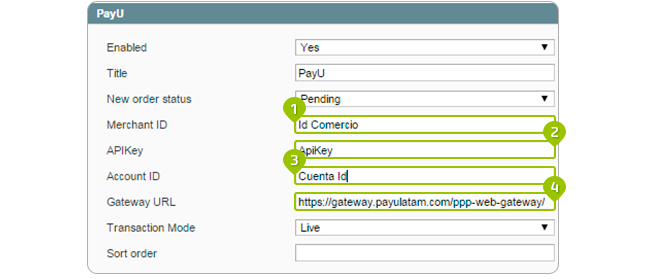
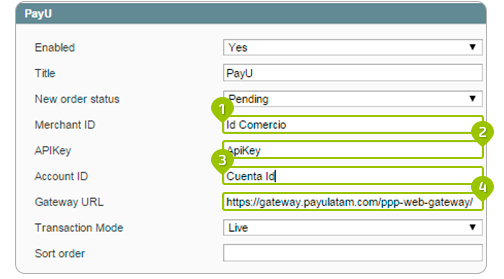
Magentos images PT - ES

diff --git a/_es/solutions/shopping_carts/magento.html b/_es/solutions/shopping_carts/magento.html
@@ -32,7 +32,7 @@ No necesitas contar con una página web para recibir pagos de forma segura.</spa
 
 	<div class="row">
 	<div class="col s12 m6 l6"><span class="number">01. </span><span class="grey-text-13">Limpiar el cache de Magento: ve a System  >  Cache Management y haz click en "Flush Magento Cache".</span></div>
-	<div class="col s12 m6 l6"><img border="0" src="/images/soluciones-adicionales/secure1-es.jpg"></div>
+	<div class="col s12 m6 l6"><img src="{{ site.baseurl }}/images/soluciones-adicionales/magento1.jpg" alt="Magento" class="center" /></div>
 	</div>
 	
 	<div class="row">
@@ -49,23 +49,23 @@ No necesitas contar con una página web para recibir pagos de forma segura.</spa
 	
 	<div class="row">
 	<div class="col s12 m6 l6"><span class="number">04. </span><span class="grey-text-13">Copia la carpeta "Gfgrisales" que se encuentra en "app/code/local" en la ruta "app/code/local" ubicada en la raíz de la instalación de Magento. Si la carpeta "local" no existe dentro de la ruta de Magento, debes crearla y luego copiar los archivos indicados. Asegúrate de que todas las carpetas quedan con todos los permisos de lectura/escritura.</span></div>
-	<div class="col s12 m6 l6"><img src="{{ site.baseurl }}/images/soluciones-adicionales/secure1-es.jpg" alt="procesamiento en línea" width="465" height="356" class="aligncenter size-full wp-image-369" /></div>
+	<div class="col s12 m6 l6"><img src="{{ site.baseurl }}/images/soluciones-adicionales/magento2.jpg" alt="Magento" class="center" /></div>
 	</div>
 
 	<div class="row">
-	<div class="col s12 m6 l6"><span class="number">05. </span><span class="grey-text-13">Copia la carpeta "payu" de la ruta app/design/frontend/base/default/template/payu" del archivo descomprimido, dentro de la ruta app/design/frontend/base/default/template" que se encuentra  en la raíz de la instalación de Magento.</span></div><div class="col s12 m6 l6"><img src="{{ site.baseurl }}/images/soluciones-adicionales/secure1-es.jpg" alt="procesamiento en línea" width="505" height="190" class="aligncenter size-full wp-image-370" /></div>
+	<div class="col s12 m6 l6"><span class="number">05. </span><span class="grey-text-13">Copia la carpeta "payu" de la ruta app/design/frontend/base/default/template/payu" del archivo descomprimido, dentro de la ruta app/design/frontend/base/default/template" que se encuentra  en la raíz de la instalación de Magento.</span></div><div class="col s12 m6 l6"><img src="{{ site.baseurl }}/images/soluciones-adicionales/magento3.jpg" alt="Magento" class="center" /></div>
 	</div>
 	
-	<div class="row"><div class="col s12 m6 l6"><span class="number">06. </span><span class="grey-text-13">Copia el archivo "Gfgrisales_Payu.xml" que se encuentra  en "app/etc/modules" del  archivo  descomprimido.  Éste  debes copiarlo dentro  de la carpeta "app/etc/modules" que se encuentra en la raíz de la instalación de Magento.</span></div><div class="col s12 m6 l6"><img src="{{ site.baseurl }}/images/soluciones-adicionales/secure1-es.jpg" alt="procesamiento en línea" width="505" height="190" class="aligncenter size-full wp-image-370" /></div>
+	<div class="row"><div class="col s12 m6 l6"><span class="number">06. </span><span class="grey-text-13">Copia el archivo "Gfgrisales_Payu.xml" que se encuentra  en "app/etc/modules" del  archivo  descomprimido.  Éste  debes copiarlo dentro  de la carpeta "app/etc/modules" que se encuentra en la raíz de la instalación de Magento.</span></div><div class="col s12 m6 l6"><img src="{{ site.baseurl }}/images/soluciones-adicionales/magento4.jpg" alt="Magento" class="center" /></div>
 	</div>
 &nbsp;<br>
 &nbsp;<br>
 <span class="blue-text-16">Configuración:</span>
 &nbsp;<br>
 &nbsp;<br>
-	<div class="row"><div class="col s12 m6 l6"><span class="number">01. </span><span class="grey-text-13">Verifica que el plugin se encuentre habilitado: Ingresa al panel de administración  de  Magento  y  ve al  menú  System  >  Configuration  >  Advanced  > Advanced.  Allí  da clic en "Disable Modules Output" y verifica que esté habilitada  la  extensión  de PayU  llamada "Gfgrisales_Payu".</span></div><div class="col s12 m6 l6"><img src="{{ site.baseurl }}/images/soluciones-adicionales/secure1-es.jpg" alt="procesamiento en línea" width="505" height="190" class="aligncenter size-full wp-image-370" /></div></div>
+	<div class="row"><div class="col s12 m6 l6"><span class="number">01. </span><span class="grey-text-13">Verifica que el plugin se encuentre habilitado: Ingresa al panel de administración  de  Magento  y  ve al  menú  System  >  Configuration  >  Advanced  > Advanced.  Allí  da clic en "Disable Modules Output" y verifica que esté habilitada  la  extensión  de PayU  llamada "Gfgrisales_Payu".</span></div><div class="col s12 m6 l6"><img src="{{ site.baseurl }}/images/soluciones-adicionales/magento5.jpg" alt="Magento" class="center" /></div></div>
 	
-	<div class="row"><div class="col s12 m6 l6"><span class="number">02. </span><span class="grey-text-13">Luego, estando en la Configuración, haz clic en "Sales > Payment Methods" donde debe aparecer el método de pago de PayU. Para desplegar la pestaña de clic sobre ella.</span></div><div class="col s12 m6 l6"><img src="{{ site.baseurl }}/images/soluciones-adicionales/secure1-es.jpg" alt="procesamiento en línea" width="505" height="190" class="aligncenter size-full wp-image-370" /></div></div>
+	<div class="row"><div class="col s12 m6 l6"><span class="number">02. </span><span class="grey-text-13">Luego, estando en la Configuración, haz clic en "Sales > Payment Methods" donde debe aparecer el método de pago de PayU. Para desplegar la pestaña de clic sobre ella.</span></div><div class="col s12 m6 l6"><img src="{{ site.baseurl }}/images/soluciones-adicionales/magento6.jpg" alt="Magento" class="center" /></div></div>
 	
 	<div style="clear:both"></div>
 	<div class="squelch-taas-tab-group squelch-taas-override" data-title="" data-disabled="false" data-collapsible="false" data-active="0" data-event="click">
@@ -84,7 +84,7 @@ No necesitas contar con una página web para recibir pagos de forma segura.</spa
 			</div>
 			
 			<div class="col s12 m6 l6">
-			<img src="{{ site.baseurl }}/images/2014/06/secure1-es1.jpg" alt="modulo administrativo" width="505" height="232" class="aligncenter size-full wp-image-350" />
+			<img src="{{ site.baseurl }}/images/soluciones-adicionales/magento7.jpg" alt="Magento" class="center" />
 			</div>
 			</div>
 			
@@ -104,7 +104,7 @@ No necesitas contar con una página web para recibir pagos de forma segura.</spa
 			</div>
 			
 			<div class="col s12 m6 l6">
-			<img src="{{ site.baseurl }}/images/2014/06/secure1-es1.jpg" alt="modulo administrativo"  width="505" height="232" class="aligncenter size-full wp-image-350" />
+			<img src="{{ site.baseurl }}/images/soluciones-adicionales/magento8.jpg" alt="Magento" class="center" />
 			</div>
 			</div>
 			

diff --git a/_pt/solutions/shopping_carts/magento.html b/_pt/solutions/shopping_carts/magento.html
@@ -32,7 +32,7 @@ No necesitas contar con una página web para recibir pagos de forma segura.</spa
 
 	<div class="row">
 	<div class="col s12 m6 l6"><span class="number">01. </span><span class="grey-text-13">Limpar o cachê do Magento: veja System > Cache Management e clique no botão "Flush Magento Cache".</span></div>
-	<div class="col s12 m6 l6"><img border="0" src="/images/soluciones-adicionales/secure1-es.jpg"></div>
+	<div class="col s12 m6 l6"><img src="{{ site.baseurl }}/images/soluciones-adicionales/magento1.jpg" alt="Magento" class="center" /></div>
 	</div>
 	
 	<div class="row">
@@ -49,23 +49,23 @@ No necesitas contar con una página web para recibir pagos de forma segura.</spa
 	
 	<div class="row">
 	<div class="col s12 m6 l6"><span class="number">04. </span><span class="grey-text-13">Copie a pasta "Gfgrisales" que se encontra em "app/code/local" dentro da pasta "app/code/local" localizada no diretório raiz da instalação do Magento. Se a pasta "local" não existir dentro do caminho do Magento, você deve criá-la e, em seguida, copiar os arquivos indicados. Certifique-se de que todas as pastas estejam com todas as permissões de leitura/escritura.</span></div>
-	<div class="col s12 m6 l6"><img src="{{ site.baseurl }}/images/soluciones-adicionales/secure1-es.jpg" alt="procesamiento en línea" width="465" height="356" class="aligncenter size-full wp-image-369" /></div>
+	<div class="col s12 m6 l6"><img src="{{ site.baseurl }}/images/soluciones-adicionales/magento2.jpg" alt="Magento" class="center" /></div>
 	</div>
 
 	<div class="row">
-	<div class="col s12 m6 l6"><span class="number">05. </span><span class="grey-text-13">Copie a pasta "payu" do caminho "app/design/frontend/base/default/template/payu" do arquivo descompactado, dentro do caminho "app/design/frontend/base/default/template" que está no diretório raiz da instalação do Magento.</span></div><div class="col s12 m6 l6"><img src="{{ site.baseurl }}/images/soluciones-adicionales/secure1-es.jpg" alt="procesamiento en línea" width="505" height="190" class="aligncenter size-full wp-image-370" /></div>
+	<div class="col s12 m6 l6"><span class="number">05. </span><span class="grey-text-13">Copie a pasta "payu" do caminho "app/design/frontend/base/default/template/payu" do arquivo descompactado, dentro do caminho "app/design/frontend/base/default/template" que está no diretório raiz da instalação do Magento.</span></div><div class="col s12 m6 l6"><img src="{{ site.baseurl }}/images/soluciones-adicionales/magento3.jpg" alt="Magento" class="center" /></div>
 	</div>
 	
-	<div class="row"><div class="col s12 m6 l6"><span class="number">06. </span><span class="grey-text-13">Copie el archivo "Gfgrisales_Payu.xml" que está em "app/etc/modules" do arquivo descompactado.  Este você deverá copiá-lo dentro da pasta "app/etc/modules" que está no diretório raiz da instalação do Magento.</span></div><div class="col s12 m6 l6"><img src="{{ site.baseurl }}/images/soluciones-adicionales/secure1-es.jpg" alt="procesamiento en línea" width="505" height="190" class="aligncenter size-full wp-image-370" /></div>
+	<div class="row"><div class="col s12 m6 l6"><span class="number">06. </span><span class="grey-text-13">Copie el archivo "Gfgrisales_Payu.xml" que está em "app/etc/modules" do arquivo descompactado.  Este você deverá copiá-lo dentro da pasta "app/etc/modules" que está no diretório raiz da instalação do Magento.</span></div><div class="col s12 m6 l6"><img src="{{ site.baseurl }}/images/soluciones-adicionales/magento4.jpg" alt="Magento" class="center" /></div>
 	</div>
 &nbsp;<br>
 &nbsp;<br>
 <span class="blue-text-16">Configuração:</span>
 &nbsp;<br>
 &nbsp;<br>
-	<div class="row"><div class="col s12 m6 l6"><span class="number">01. </span><span class="grey-text-13">Verifica que o plug-in se encontra habilitado: Ingressa ao painel de administração  do  Magento  e vá ao menu System  >  Configuration  >  Advanced  > Advanced.  Ali, clique em "Disable Modules Output" e verifica que esteja habilitada  a  extensão de PayU chamada "Gfgrisales_Payu".</span></div><div class="col s12 m6 l6"><img src="{{ site.baseurl }}/images/soluciones-adicionales/secure1-es.jpg" alt="procesamiento en línea" width="505" height="190" class="aligncenter size-full wp-image-370" /></div></div>
+	<div class="row"><div class="col s12 m6 l6"><span class="number">01. </span><span class="grey-text-13">Verifica que o plug-in se encontra habilitado: Ingressa ao painel de administração  do  Magento  e vá ao menu System  >  Configuration  >  Advanced  > Advanced.  Ali, clique em "Disable Modules Output" e verifica que esteja habilitada  a  extensão de PayU chamada "Gfgrisales_Payu".</span></div><div class="col s12 m6 l6"><img src="{{ site.baseurl }}/images/soluciones-adicionales/magento5.jpg" alt="Magento" class="center" /></div></div>
 	
-	<div class="row"><div class="col s12 m6 l6"><span class="number">02. </span><span class="grey-text-13">Em seguida, ainda na Configuração, clique em "Sales > Payment Methods" onde aparecerá a forma de pagamento do PayU. Para abrir a aba clique nela.</span></div><div class="col s12 m6 l6"><img src="{{ site.baseurl }}/images/soluciones-adicionales/secure1-es.jpg" alt="procesamiento en línea" width="505" height="190" class="aligncenter size-full wp-image-370" /></div></div>
+	<div class="row"><div class="col s12 m6 l6"><span class="number">02. </span><span class="grey-text-13">Em seguida, ainda na Configuração, clique em "Sales > Payment Methods" onde aparecerá a forma de pagamento do PayU. Para abrir a aba clique nela.</span></div><div class="col s12 m6 l6"><img src="{{ site.baseurl }}/images/soluciones-adicionales/magento6.jpg" alt="Magento" class="center" /></div></div>
 	
 	<div style="clear:both"></div>
 	<div class="squelch-taas-tab-group squelch-taas-override" data-title="" data-disabled="false" data-collapsible="false" data-active="0" data-event="click">
@@ -84,7 +84,7 @@ No necesitas contar con una página web para recibir pagos de forma segura.</spa
 			</div>
 			
 			<div class="col s12 m6 l6">
-			<img src="{{ site.baseurl }}/images/2014/06/secure1-es1.jpg" alt="modulo administrativo" width="505" height="232" class="aligncenter size-full wp-image-350" />
+			<img src="{{ site.baseurl }}/images/soluciones-adicionales/magento7.jpg" alt="Magento" class="center" />
 			</div>
 			</div>
 			
@@ -104,7 +104,7 @@ No necesitas contar con una página web para recibir pagos de forma segura.</spa
 			</div>
 			
 			<div class="col s12 m6 l6">
-			<img src="{{ site.baseurl }}/images/2014/06/secure1-es1.jpg" alt="modulo administrativo"  width="505" height="232" class="aligncenter size-full wp-image-350" />
+			<img src="{{ site.baseurl }}/images/soluciones-adicionales/magento8.jpg" alt="Magento" class="center" />
 			</div>
 			</div>
 			
